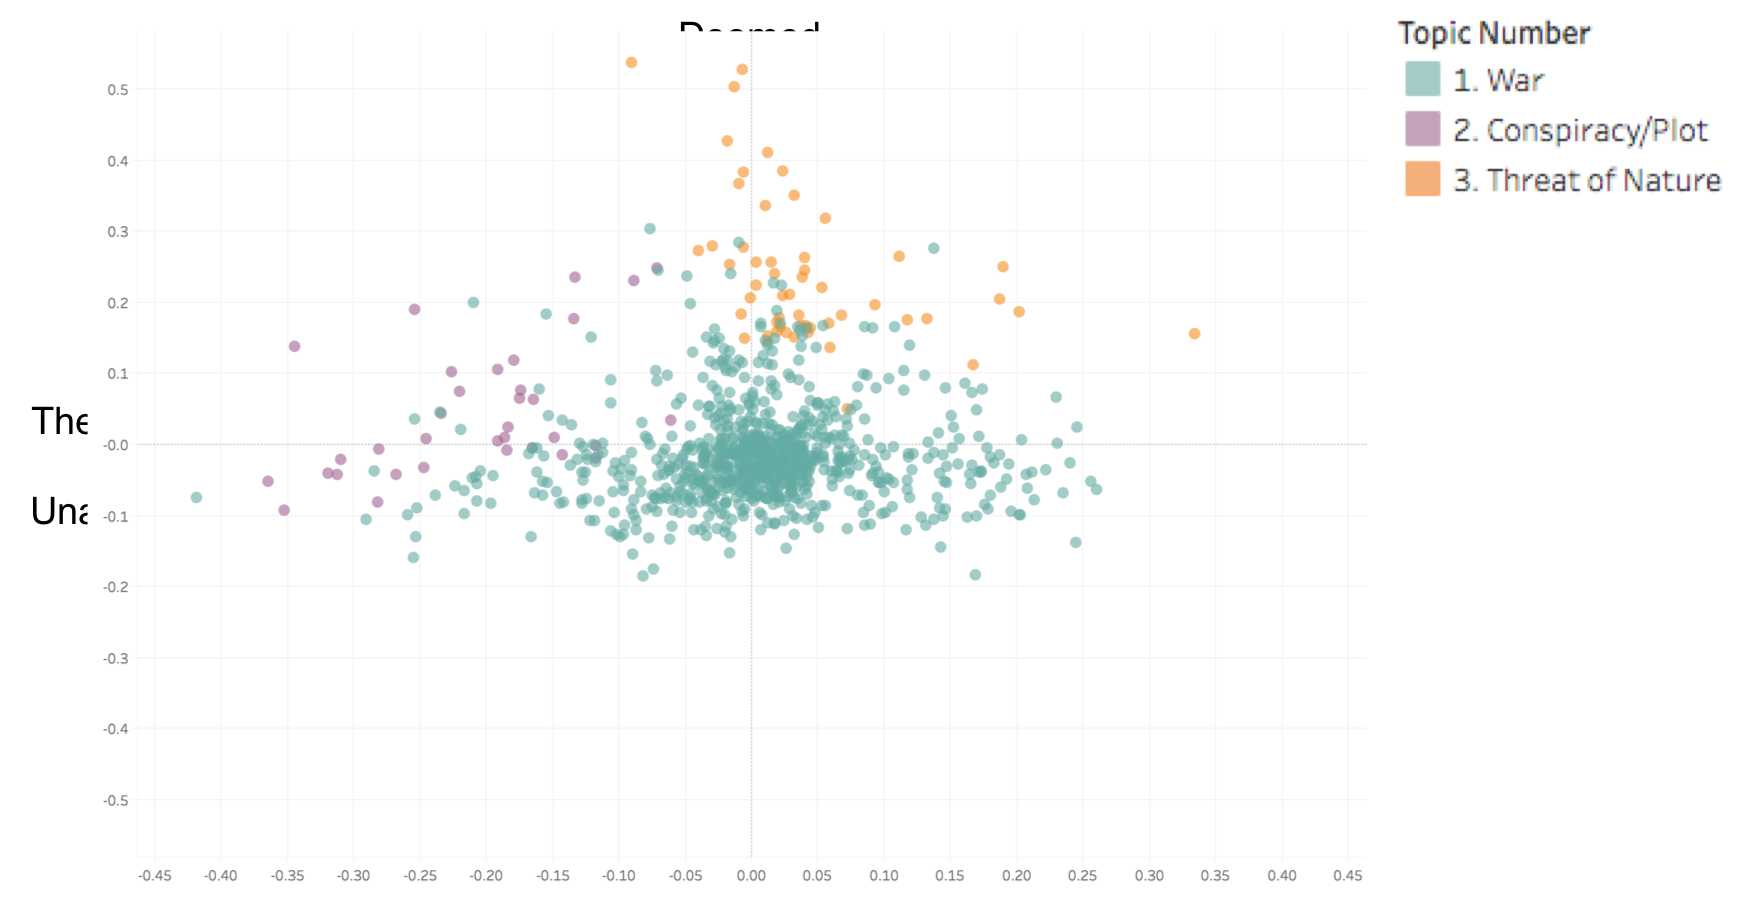
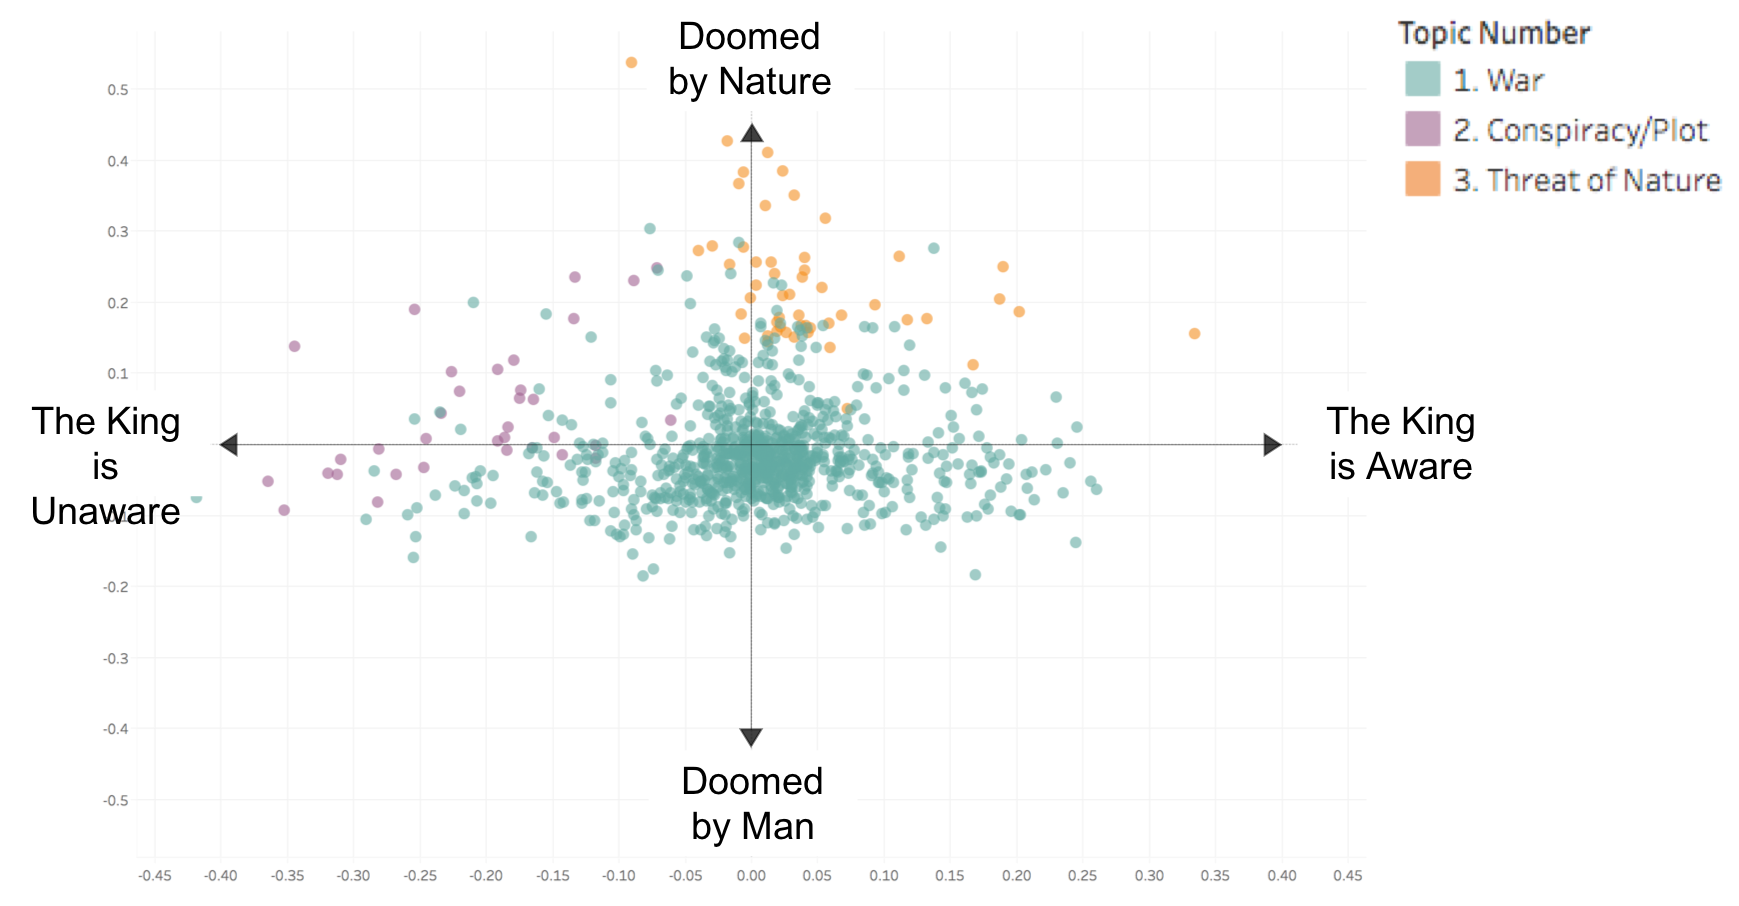
More updates to NOstradamus blog post.

diff --git a/_posts/2018-11-18-post.md b/_posts/2018-11-18-post.md
@@ -36,6 +36,8 @@ At this point, I had three separate weights for each prophecy, which corresponde
 
 ![prophecy_topics_1]({{ site.url }}/images/prophecy_topics_1.png)
 
-From the chart above, I saw immediately that Topic 1, which I had titled "Doom to a Kingdom by War/Attack," was the dominant topic for the majority of Nostradamus's prophecies. My second and third topics were both the dominant topics for fewer than 100 prophecies. What I found most interesting though was to see how well these three topics were separated in a two-dimensional space.
+From the chart above, I saw immediately that Topic 1, which I had titled "Doom to a Kingdom by War/Attack," was the dominant topic for the majority of Nostradamus's prophecies. Topics 2 and 3 were each the dominant topics for fewer than 100 prophecies. What I found most interesting though was to see how well these three topics were separated in a two-dimensional space. Prophecies dominated by Topic 1 hovered around the center of the chart, while prophecies dominated by Topics 2 and 3 filled the left and top of the chart respectively.
+
+To interpret what it means for a prophecy to fall at a specific location on this chart, I decided to name the axes themselves. The chart below shows this final result.
 
 ![prophecy_topics_1]({{ site.url }}/images/prophecy_topics_3.png)
